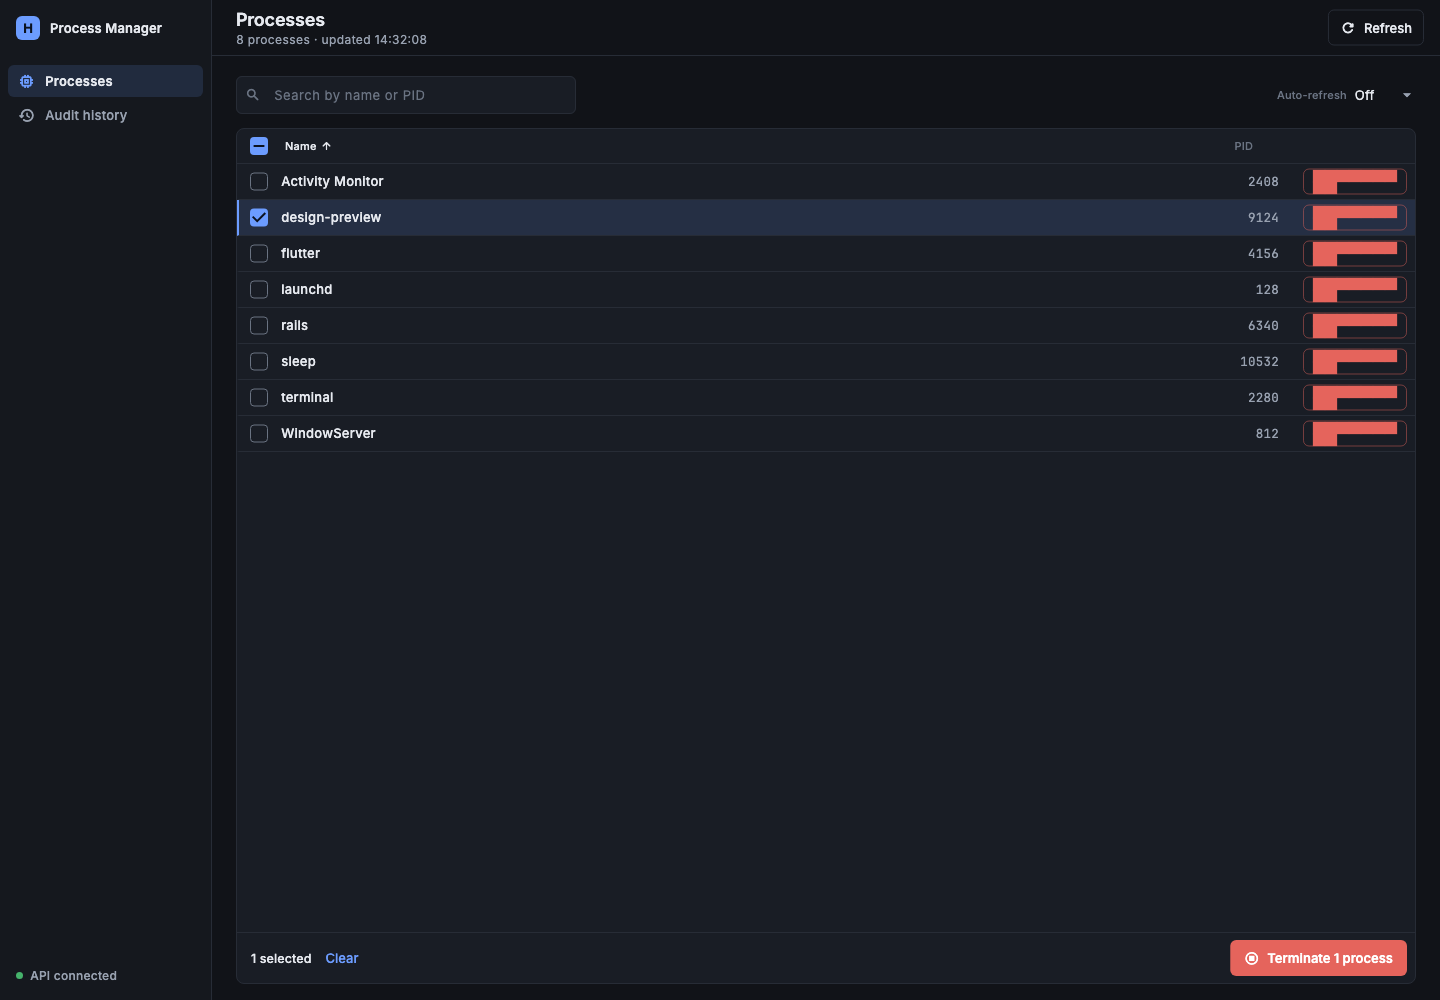
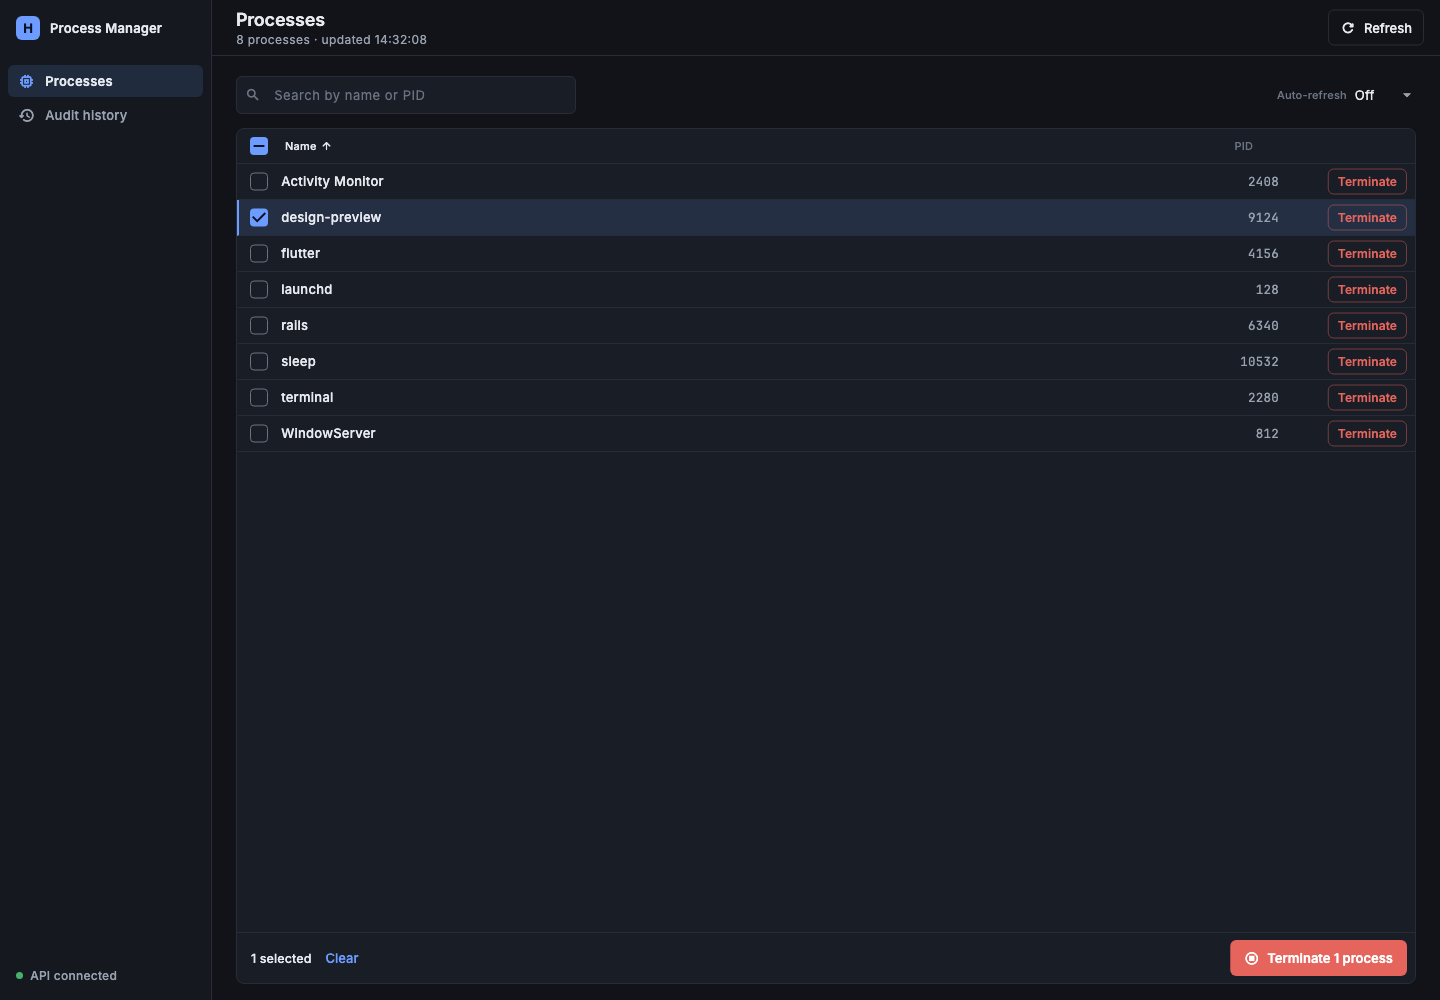
Use the themed label style for the inline Terminate button

Changed region(s): [[0.9062, 0.155, 0.9688, 0.465]]

diff --git a/apps/process_manager/lib/process_manager_app.dart b/apps/process_manager/lib/process_manager_app.dart
@@ -881,10 +881,11 @@ class _ProcessRow extends StatelessWidget {
                               ? c.danger.withValues(alpha: .45)
                               : c.hairline,
                         ),
-                        textStyle: const TextStyle(
-                          fontSize: 12,
-                          fontWeight: FontWeight.w600,
-                        ),
+                        textStyle: Theme.of(context).textTheme.labelLarge
+                            ?.copyWith(
+                              fontSize: 12,
+                              fontWeight: FontWeight.w600,
+                            ),
                       ),
                       child: const Text('Terminate'),
                     ),
